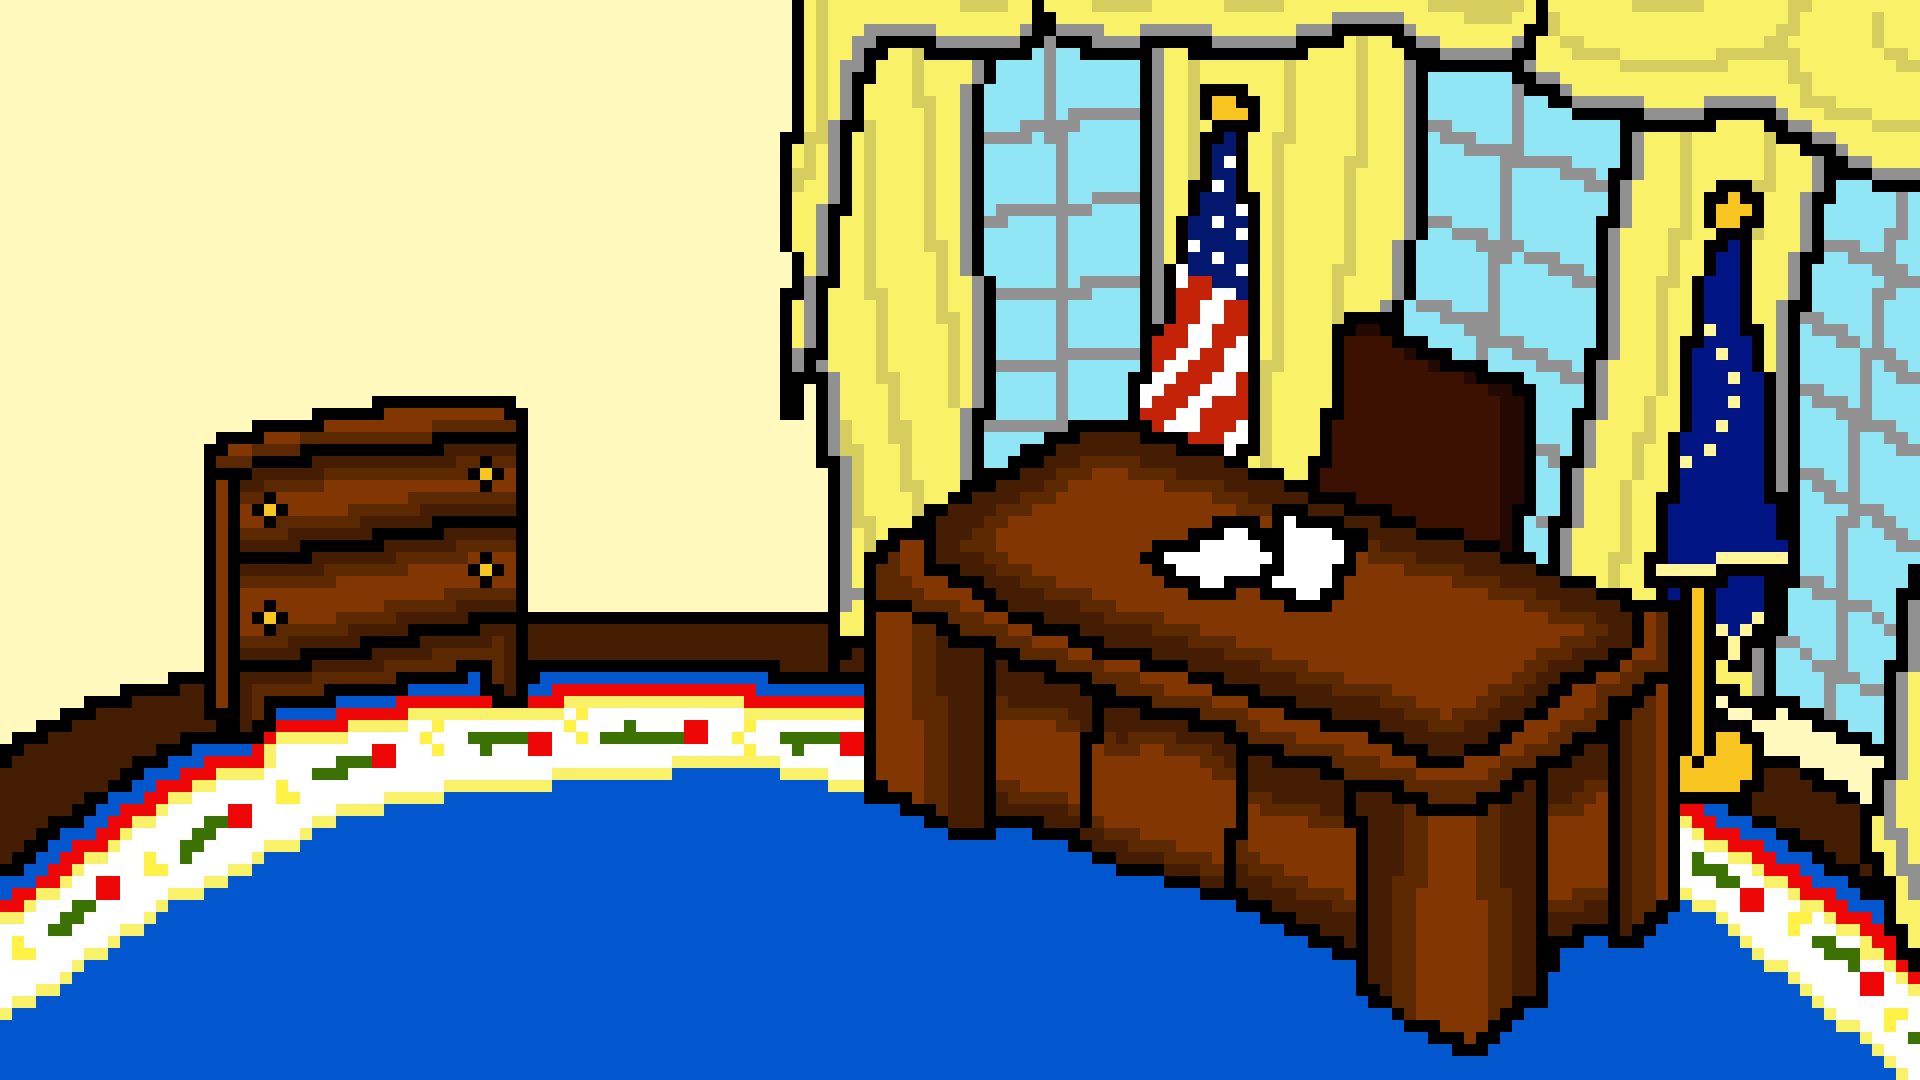
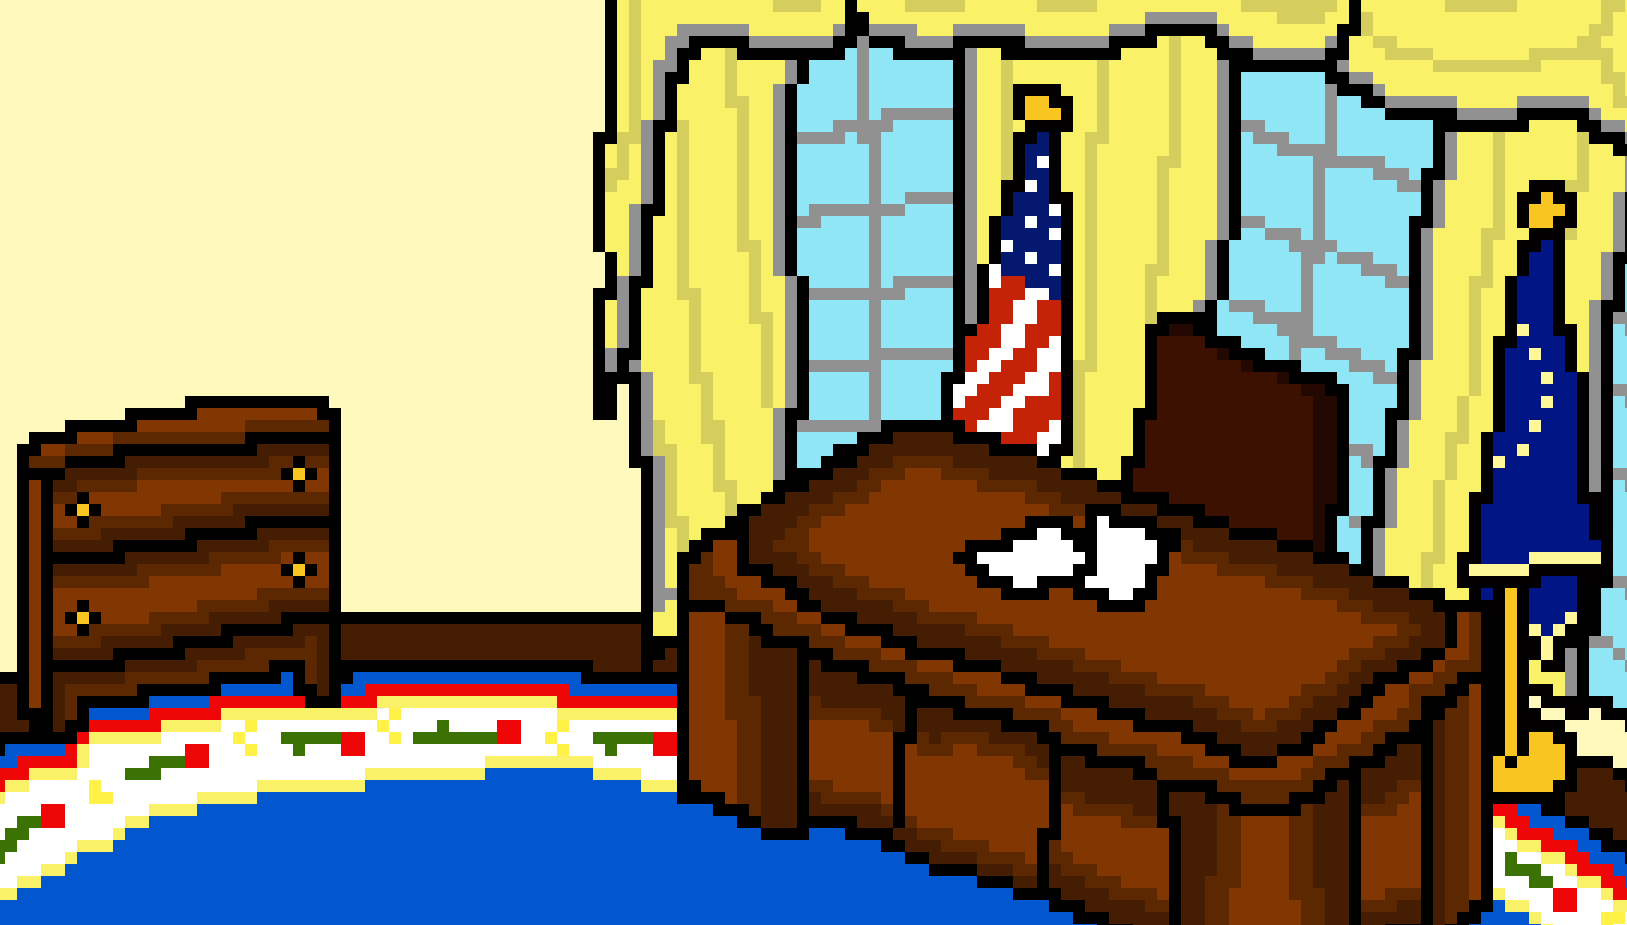
ovaloffice.png

diff --git a/src/quidProQuo/RoomView.java b/src/quidProQuo/RoomView.java
@@ -26,9 +26,9 @@ public class RoomView extends JPanel implements ActionListener{
     private BufferedImage background;
 
     // Width of the window
-    private static final int WIDTH = 1920;
+    private static final int WIDTH = 1627;
     //Height of window
-    private static final int HEIGHT = 1080;
+    private static final int HEIGHT = 925;
 
 
 
